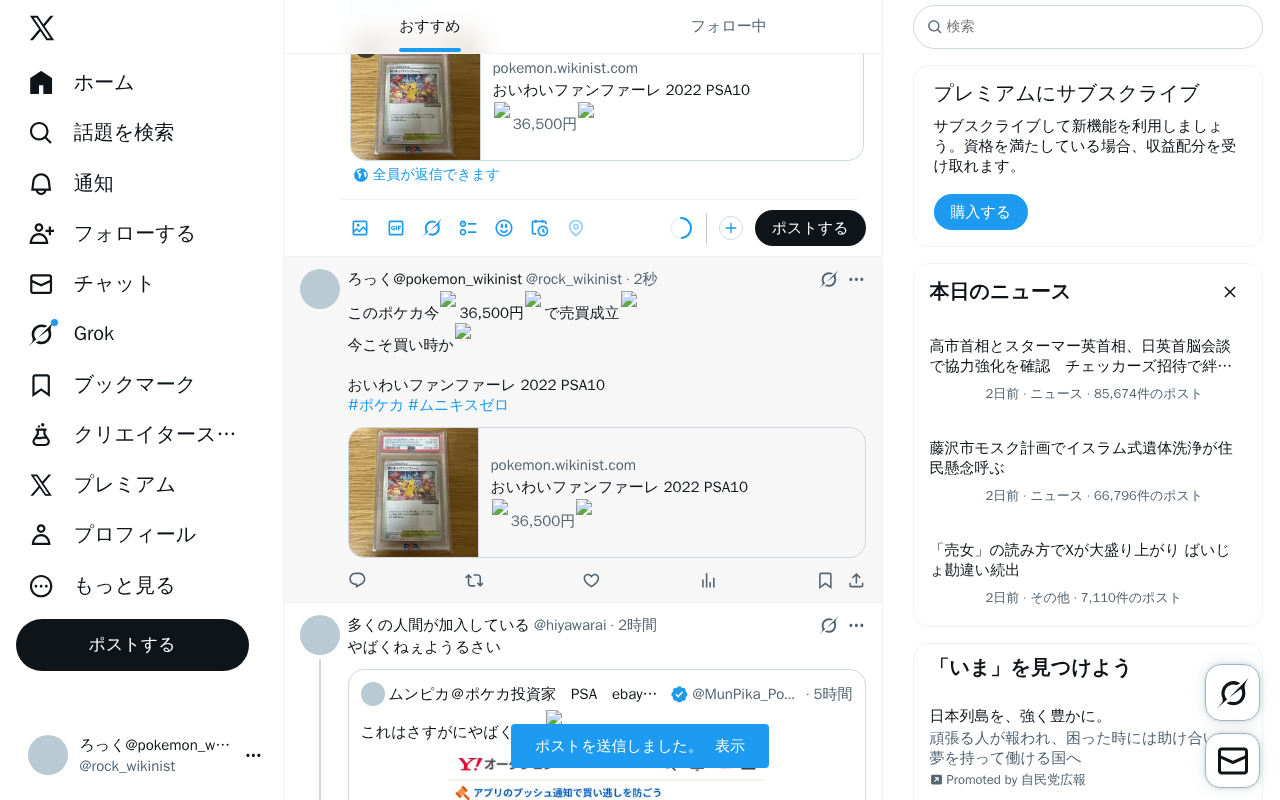
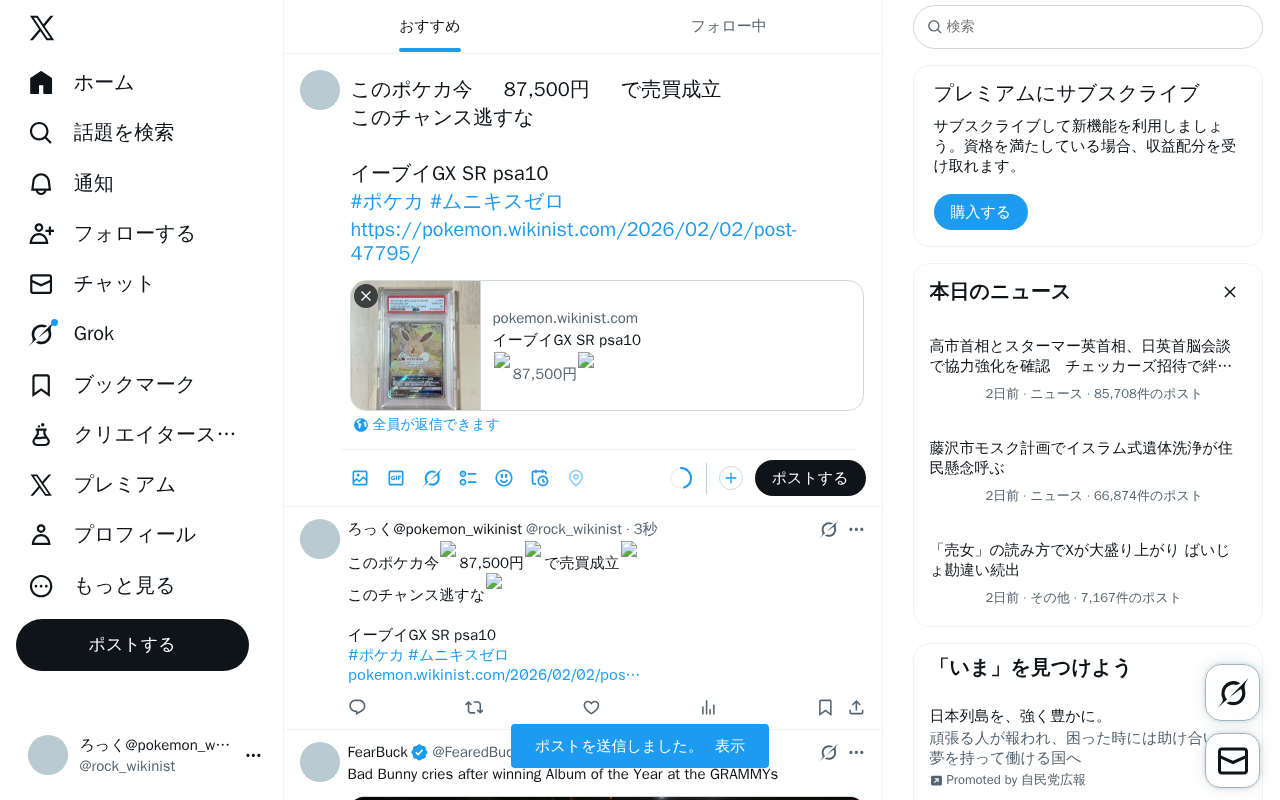
update system data

Changed region(s): [[0.2188, 0.0625, 0.6875, 1.0], [0.625, 0.8438, 0.6875, 0.9062], [0.625, 0.3438, 0.6562, 0.375]]

diff --git a/content/posts/test-pokemon-20260202-215132.md b/content/posts/test-pokemon-20260202-215132.md
@@ -1,0 +1,38 @@
+---
+title: "イーブイGX SR psa10"
+date: 2026-02-02T21:51:32+09:00
+description: "🔥87,500円🔥 メルカリで「イーブイGX SR psa10」が販売中！"
+amazon_url: "https://jp.mercari.com/item/m64040425942?afid=1391290753"
+robotsNoIndex: true
+categories: ["ポケモン"]
+tags: ["5万円以上"]
+cover:
+  image: "https://static.mercdn.net/thumb/item/webp/m64040425942_1.jpg?1770036328"
+  hiddenInList: true
+  hiddenInSingle: true
+---
+
+<div class="image-and-buttons">
+    <div class="image-area" style="margin-bottom: 20px; text-align: center;">
+        <a href="https://jp.mercari.com/item/m64040425942?afid=1391290753" target="_blank" rel="nofollow sponsored noopener noreferrer">
+            <img src="https://static.mercdn.net/thumb/item/webp/m64040425942_1.jpg?1770036328" alt="87,500" style="max-width: 100%; border-radius: 8px; border: 1px solid #ddd;" />
+        </a>
+        <br><span style="font-size:1.5em;color:red;font-weight:bold;">🔥87,500円🔥</span>
+    </div>
+    <div class="link-buttons">
+        <a href="https://jp.mercari.com/item/m64040425942?afid=1391290753" target="_blank" rel="nofollow sponsored noopener noreferrer">
+            💎 商品状態を見る
+        </a>
+        <a href="https://jp.mercari.com/search?afid=1391290753&category_id=1289&keyword=%E3%82%A4%E3%83%BC%E3%83%96%E3%82%A4GX%20SR%20psa10" target="_blank" rel="nofollow sponsored noopener noreferrer">
+            🔍 類似商品を見る
+        </a>
+        <a href="https://jp.mercari.com/search?afid=1391290753&brand_id=&category_id=1289&color_id=&item_condition_id=&item_types=&keyword=%E3%82%A4%E3%83%BC%E3%83%96%E3%82%A4GX%20SR%20psa10&order=desc&shipping_method=&shipping_payer_id=&size_id=&sort=created_time&status=sold_out%2Ctrading" target="_blank" rel="nofollow sponsored noopener noreferrer">
+            📈 価格推移・履歴を見る
+        </a>
+    </div>
+</div>
+
+<p style="font-size:1.0em;color:#555;line-height:1.6;">
+「イーブイGX SR psa10」はメルカリに出品されました！<br>
+最新のポケモン情報は当サイトで随時更新中です。
+</p>
